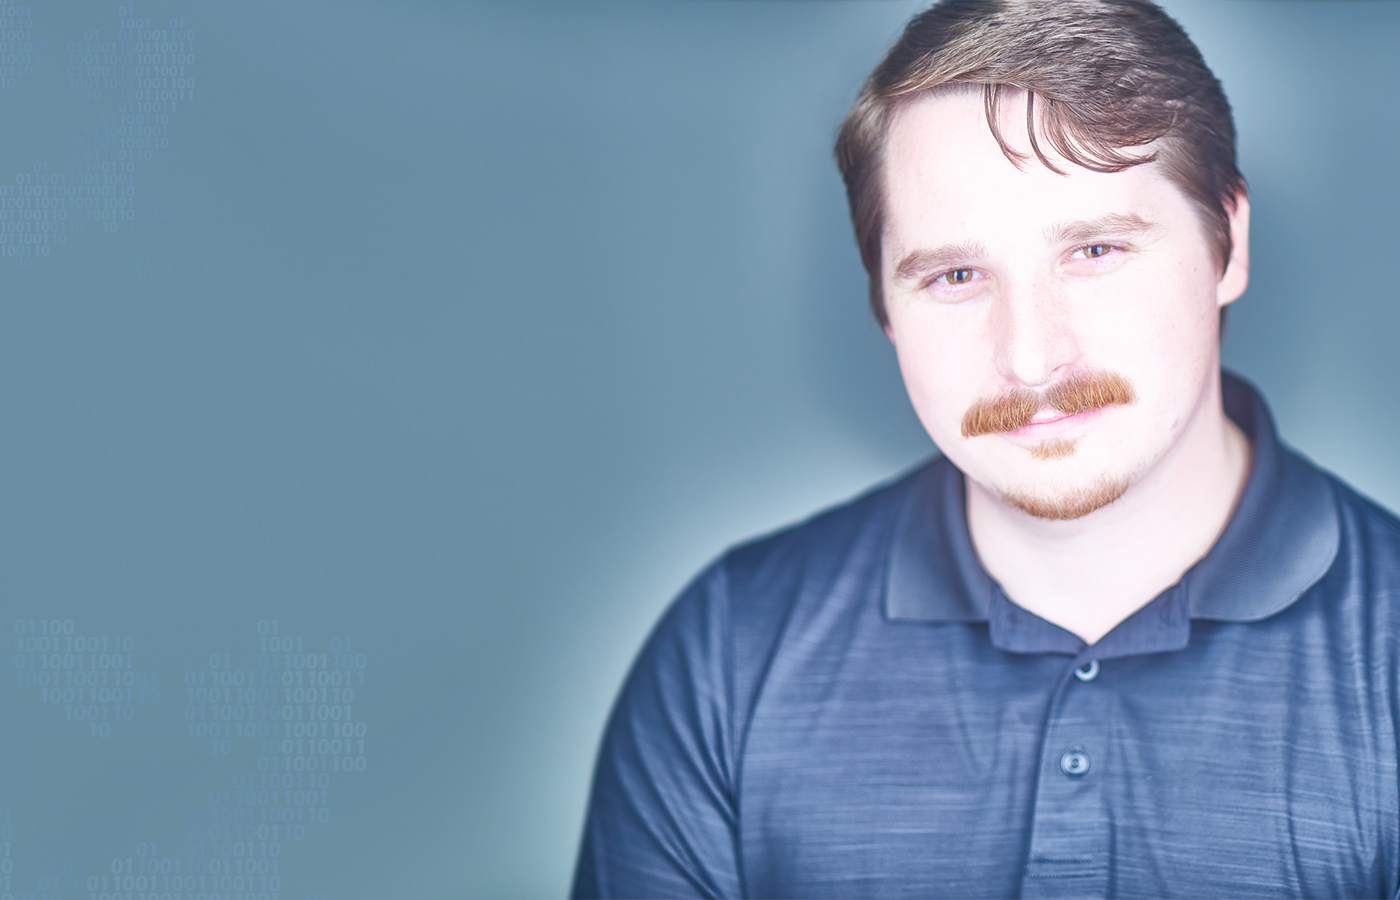
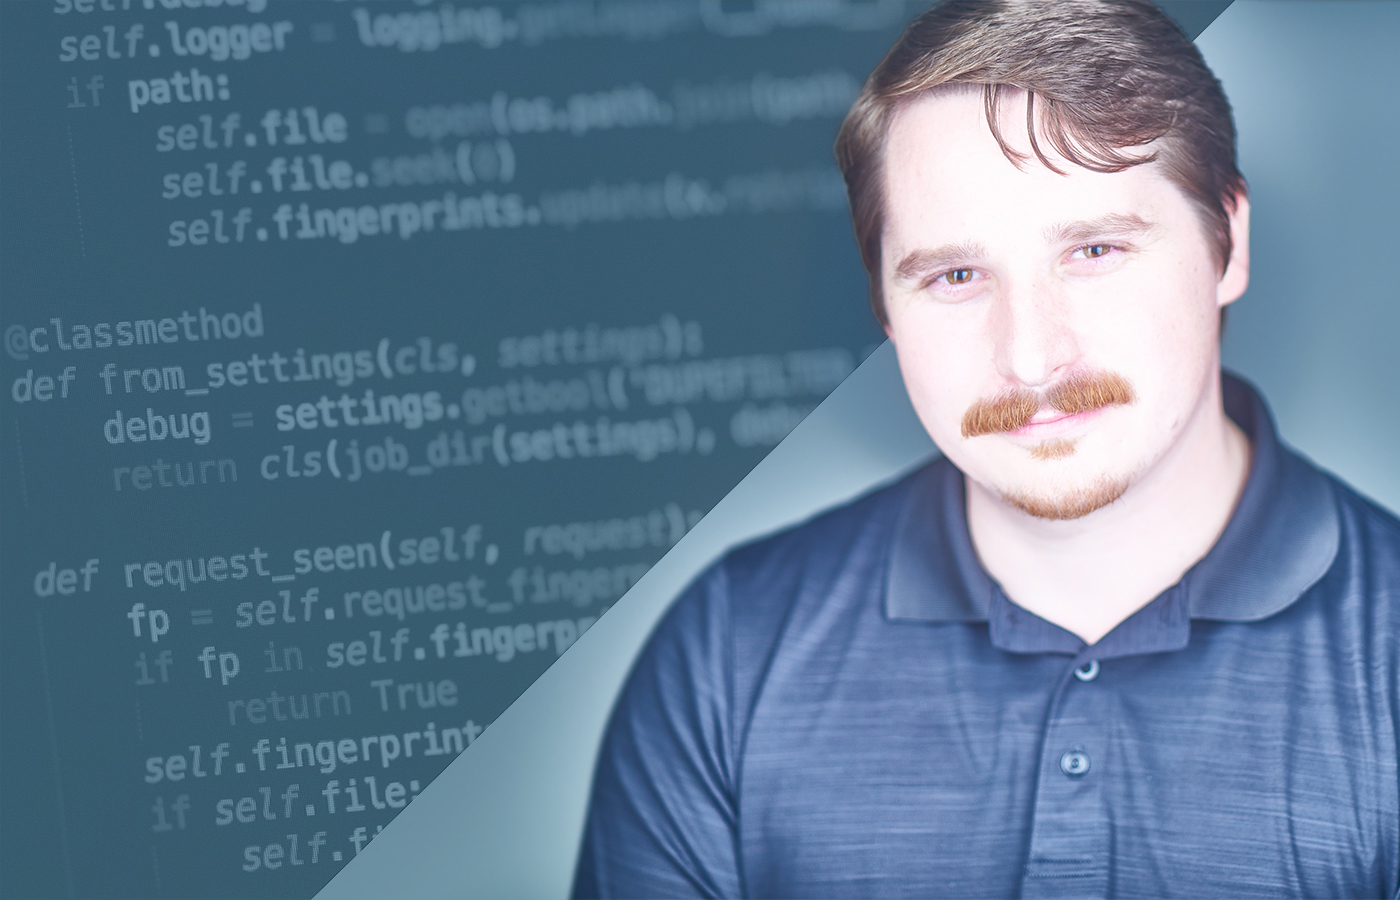
Modify job description content Change background images for sections Simplify main greeting

diff --git a/index.html b/index.html
@@ -33,16 +33,16 @@
             <br>
             I'm Nicholas Gingerella
           </p>
-          <p class="font-size-24 header_font heading_accent_color">
-            A software engineer who enjoys bringing order to chaotic code and building great products
+          <p class="font-size-24 header_font heading_accent_color mt-5">
+            A software engineer bringing order to chaotic code and building software to help tackle big challenges 
           </p>
-          <p id="intro_slogan" class="font-size-60">
+          <!-- <p id="intro_slogan" class="font-size-60">
             Let's Make
             <br>
             <span id="big_ideas" class="font-weight-bold font-size-100 text-uppercase">Big Ideas</span>
             <br>
             A Reality
-          </p>
+          </p> -->
         </div>
       </div>
       
@@ -61,10 +61,10 @@
             shape how I approach a project, and what values I feel are most important to a practitioner in this field.
           </p>
           <p class="mt-5">
-            <span class="header_font font-weight-bold font-italic font-size-30">Ask Questions</span>
+            <span class="header_font font-weight-bold font-italic font-size-30">Be a Problem Solver</span>
             <br>
             <span class="light_text">
-              Ask questions and analyze the root cause of problems when searching for solutions. Break down complex
+              Ask questions and analyze the root cause of problems. Break down complex
               issues and create elegant solutions that provide lasting value, rather than short lived patches.
             </span>
           </p>
@@ -72,21 +72,21 @@
             <span class="header_font font-weight-bold font-italic font-size-30">Value Quality</span>
             <br>
             <span class="light_text">
-              Have an eye for detail and usability when designing software. Your goal is to create a quality product
-              which presents an enjoyable user experience to your target audience.
+              Have an eye for detail and usability when designing software, not only to present a more enjoyable 
+              product for your users, but to create a better developer experience for your peers.
             </span>
           </p>
           <p class="mt-5">
             <span class="header_font font-weight-bold font-italic font-size-30">Never Stop Learning</span>
             <br>
             <span class="light_text">
-              Learn from your mistakes and those around you, always seeking knowledge and tools to boost your
+              Learn from your mistakes and those around you, always seek knowledge and tools to boost your
               productivity
               and expand your skills. True learning requires effort, don't always take the easy path.
             </span>
           </p>
           <p class="mt-5">
-            <span class="header_font font-weight-bold font-italic font-size-30">Be A Team Player</span>
+            <span class="header_font font-weight-bold font-italic font-size-30">Be a Collaborator</span>
             <br>
             <span class="light_text">
               Work with others to take on the big challenges you can't do alone. Through the teamwork of many
@@ -123,24 +123,24 @@
               <img class="card_icon filter-icon-color " src="assets/img/cplupluslogo.svg">
               <p class="card_heading font-size-20">C and C++</p>
               <p class="light_text">
-                The language I primarily develop in as a software engineer at my current company. Much of my work
-                involves communicating with external vendor hardware over network interfaces.
+                I use C and C++ for most of my system programming projects. I have experience building client server applications
+                on linux operating systems using the Linux programming interface to support needs for concurrency, file IO, and more.
               </p>
             </div>
             <div class="col-4">
               <div class="card_icon"><i class="fab fa-python fa-3x"></i></div>
               <p class="card_heading  font-size-20">Python</p>
               <p class="light_text">
-                I've mostly developed automation scripts and small helper tools using Python. Although simple at first
-                glance, Python is very powerful and versatile for even full scale projects if used properly.
+                I use Python for creating scripts to support automated testing and basic linux administration. I also use Python for embedded
+                development projects on Raspberry-Pi, and Web Development projects using Flask and Django.
               </p>
             </div>
             <div class="col-4">
               <div class="card_icon"><i class="fas fa-laptop-code fa-3x"></i></div>
               <p class="card_heading font-size-20">HTML, CSS, and Javascript</p>
               <p class="light_text">
-                The staples of web development, I use these for visually creative projects. I currently work with the
-                Bootsrap CSS framework and JQuery for web applications.
+                The staples of web development, I use these for visually creative projects. I have experience working with the
+                Bootstrap CSS framework and the JQuery javascript framework for creating websites and web applications.
               </p>
             </div>
           </div>
@@ -156,17 +156,16 @@
             <div class="col-4">
               <div class="my_card">
                 <div class="card_icon"><i class="fas fa-users fa-3x"></i></div>
-                <p class="card_heading font-size-20">Agile Methodologies</p>
+                <p class="card_heading font-size-20">Agile Development</p>
                 <p class="light_text">
-                  Working on teams using SCRUM, our focus was the rapid development of prototypes, and getting our
-                  software
-                  in front of the customer for the feedback necessary to pivot our product to fit their needs.
+                  When done right, Agile can help teams identify and focus on features that bring real value to their customers, while
+                  continuously improving their processes and workflow to enable everyone on the team to perform at their best.
                 </p>
               </div>
             </div>
             <div class="col-4">
               <div class="card_icon"><i class="fas fa-pencil-ruler fa-3x"></i></div>
-              <p class="card_heading  font-size-20">Engineering Processes</p>
+              <p class="card_heading  font-size-20">Engineering Process</p>
               <p class="light_text">
                 Mission critical projects require a well disciplined team with defined engineering processes, reducing
                 our defects and regression in our products and producing quality documents for software design and test
@@ -177,9 +176,9 @@
               <div class="card_icon"><i class="fas fa-hands-helping fa-3x"></i></div>
               <p class="card_heading font-size-20">Team Building & Collaboration</p>
               <p class="light_text">
-                I'm an advocate for fostering a healthy team culture. Teams where members feel comfortable and respect
-                one another leads to open collaboration where everyone is able to improve and contribute to a shared
-                goal.
+                I make it a priority to help create a positive environment for everyone on the team. Teams that 
+                feel comfortable and respect one another are better able to collaborate more effectively, and produce
+                better work as a result.
               </p>
             </div>
           </div>
@@ -217,9 +216,10 @@
                 Responsibilities:
               </p>
               <ul>
-                <li>Requirements development</li>
-                <li>Interface design</li>
-                <li>Software design and implementation</li>
+                <li>Design, code, and document software updates for commercial and government products</li>
+                <li>Work with many teams, both internal and external, to define interfaces between many systems</li>
+                <li>Integrate into many teams, transferring knowledge while supporting existing deadlines</li>
+                <li>Coach new employees/team members on existing engineering processes and tools during their onboarding process</li>
               </ul>
             </div>
             <div>
@@ -254,9 +254,13 @@
                 Responsibilities:
               </p>
               <ul>
-                <li>Lead programming lessons and exercise sessions</li>
-                <li>Mentor students individually in areas that they struggled with</li>
-                <li>Create tests and quizzes to assess understanding of covered material</li>
+                <li>Create a welcoming environment to reduce student stress and provide an enjoyable learning experience</li>
+                <li>Mentor students individually in struggles with both the course content, but also their development tools</li>
+                <li>Test and quiz students on a regular basis to both assess their progress and enhance retention of new knowledge</li>
+                <li>
+                  Educate students on the different applications of programming in general, to provide motivation and context for those 
+                  looking to take their new skills further
+                </li>
               </ul>
             </div>
             <div>
@@ -273,12 +277,12 @@
                 Communicating technical concepts to children who had never programmed was quite the challenge, and I
                 learned a lot about communication and fostering a comfortable learning environment for these newcomers.
               </p>
-              <p>
+              <!-- <p>
                 But even with all the hurdles faced, that class performed beautifully, and by the end of the quarter,
                 they
                 were all armed with a new tool at their disposal and a new found appreciation for the applications they
                 use every day.
-              </p>
+              </p> -->
             </div>
           </div>
           <div id="ucr_img" class="col-6 text-center">
@@ -306,6 +310,8 @@
               <ul>
                 <li>Design and implemented features for customer facing content management systems</li>
                 <li>Updated portions of backend infrastructure to improve security and modernize technology stack</li>
+                <li>Create and setup tech demos for both existing and potential customers</li>
+                <li>Work with project management to clearly define customer feature requests and plan implementation schedule</li>
               </ul>
             </div>
             <div>
@@ -336,13 +342,13 @@
     <div id="contact_container" class="container p-5">
       <div class="row">
         <div class="col">
-          <h1 class="section_heading_light text-center">Let's Get In Touch!</h1>
+          <h1 class="section_heading text-center">Let's Get In Touch!</h1>
           <hr class="custom_hr">
           <p class="text-center mt-4">
             Looking for a software engineer who values his craft and can help you build great things?
             <br>
             Feel free to drop me an email at <span
-              class="font-weight-bold header_font yellow_accent font-size-20">nicholas.gingerella@gmail.com</span>, or
+              class="font-weight-bold header_font font-size-20">nicholas.gingerella@gmail.com</span>, or
             simply fill out the form below.
           </p>
         </div>

diff --git a/assets/css/main.css b/assets/css/main.css
@@ -34,7 +34,7 @@ p {
 }
 
 #introduction_section {
-    background-image: url("../img/banner_photo_1900.jpg");
+    background-image: url("../img/banner_photo_1900_v2.jpg");
     background-position: center;
     background-repeat: no-repeat;
     height: 900px; /*to fully display background image*/
@@ -64,7 +64,7 @@ p {
 }
 
 #mission_section {
-    background-image: url("../img/engineering_lab_overlay_shaped.jpg");
+    background-image: url("../img/engineering_lab_overlay_shaped_2.jpg");
     background-position: center;
     background-repeat: no-repeat;
     background-size:cover;
@@ -83,7 +83,7 @@ p {
 }
 
 #skills_section {
-    background-image: url("../img/code_overlay_shaped.jpg");
+    background-image: url("../img/Tools_overlay_shaped_2.jpg");
     background-position: center;
     background-repeat: no-repeat;
     background-size:cover;
@@ -120,7 +120,9 @@ p {
 }
 
 #contact_container {
-    background-color: #143344;
+    /* background-color: #143344; */
+    border: 1px solid #c5cbce;
+    background-color: #f3f7f8;
     box-shadow:
     0 2.8px 2.2px rgba(0, 0, 0, 0.034),
     0 6.7px 5.3px rgba(0, 0, 0, 0.048),
@@ -130,12 +132,12 @@ p {
     0 100px 80px rgba(0, 0, 0, 0.12)
   ;
   /* border-radius: 5px; */
-  color: #f0f4f6;
-  border: solid 1px #5c8397;
+  /* color: #f0f4f6; */
+  /* border: solid 1px #5c8397; */
 }
 
 #contact_container .invalid-feedback {
-    color: #fffd6e;
+    /* color: #fffd6e; */
 }
 
 #skills_section .sub_heading {
@@ -173,7 +175,7 @@ p {
 hr.custom_hr {
     border: 0;
     height: 1px;
-    background-image: linear-gradient(to right, #143344, rgba(130,186,225, 0.75), #143344);
+    background-image: linear-gradient(to right, #f3f7f8, rgba(17, 55, 82, 0.75), #f3f7f8);
 }
 
 .job_tasks {
@@ -193,7 +195,7 @@ background-color: #f3f7f8;
 }
 
 .job_tasks ul li {
-    margin-top: 0.5em;
+    margin-top: 1em;
     text-indent: -0.8em;
 }
 
